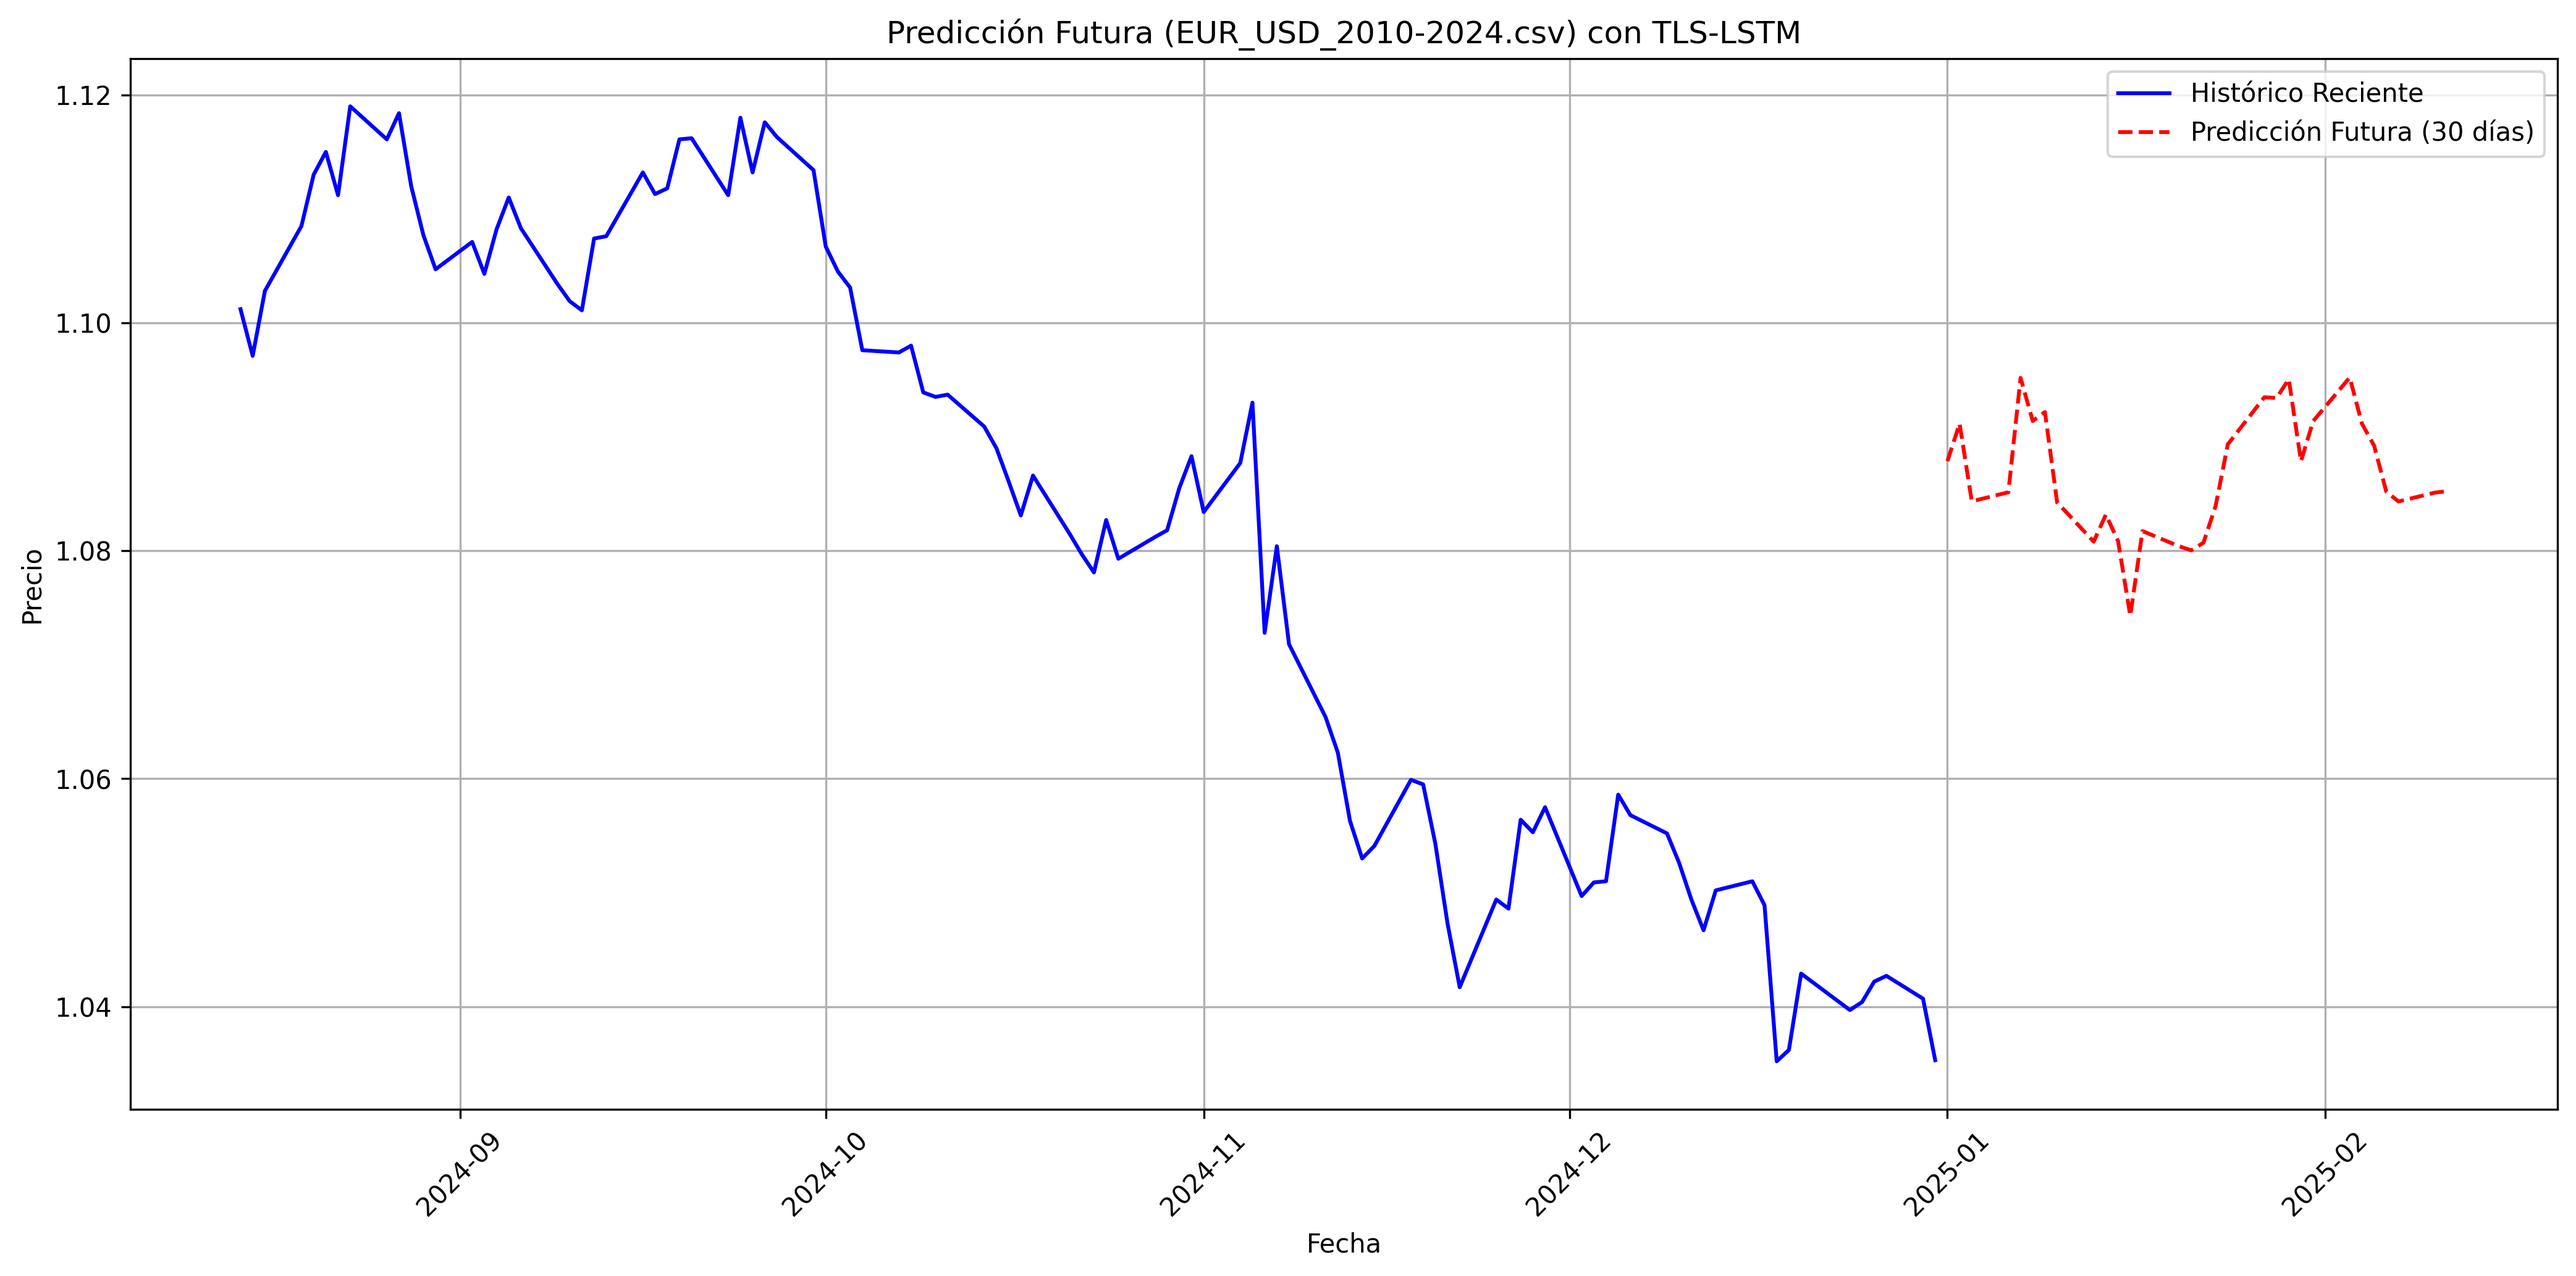
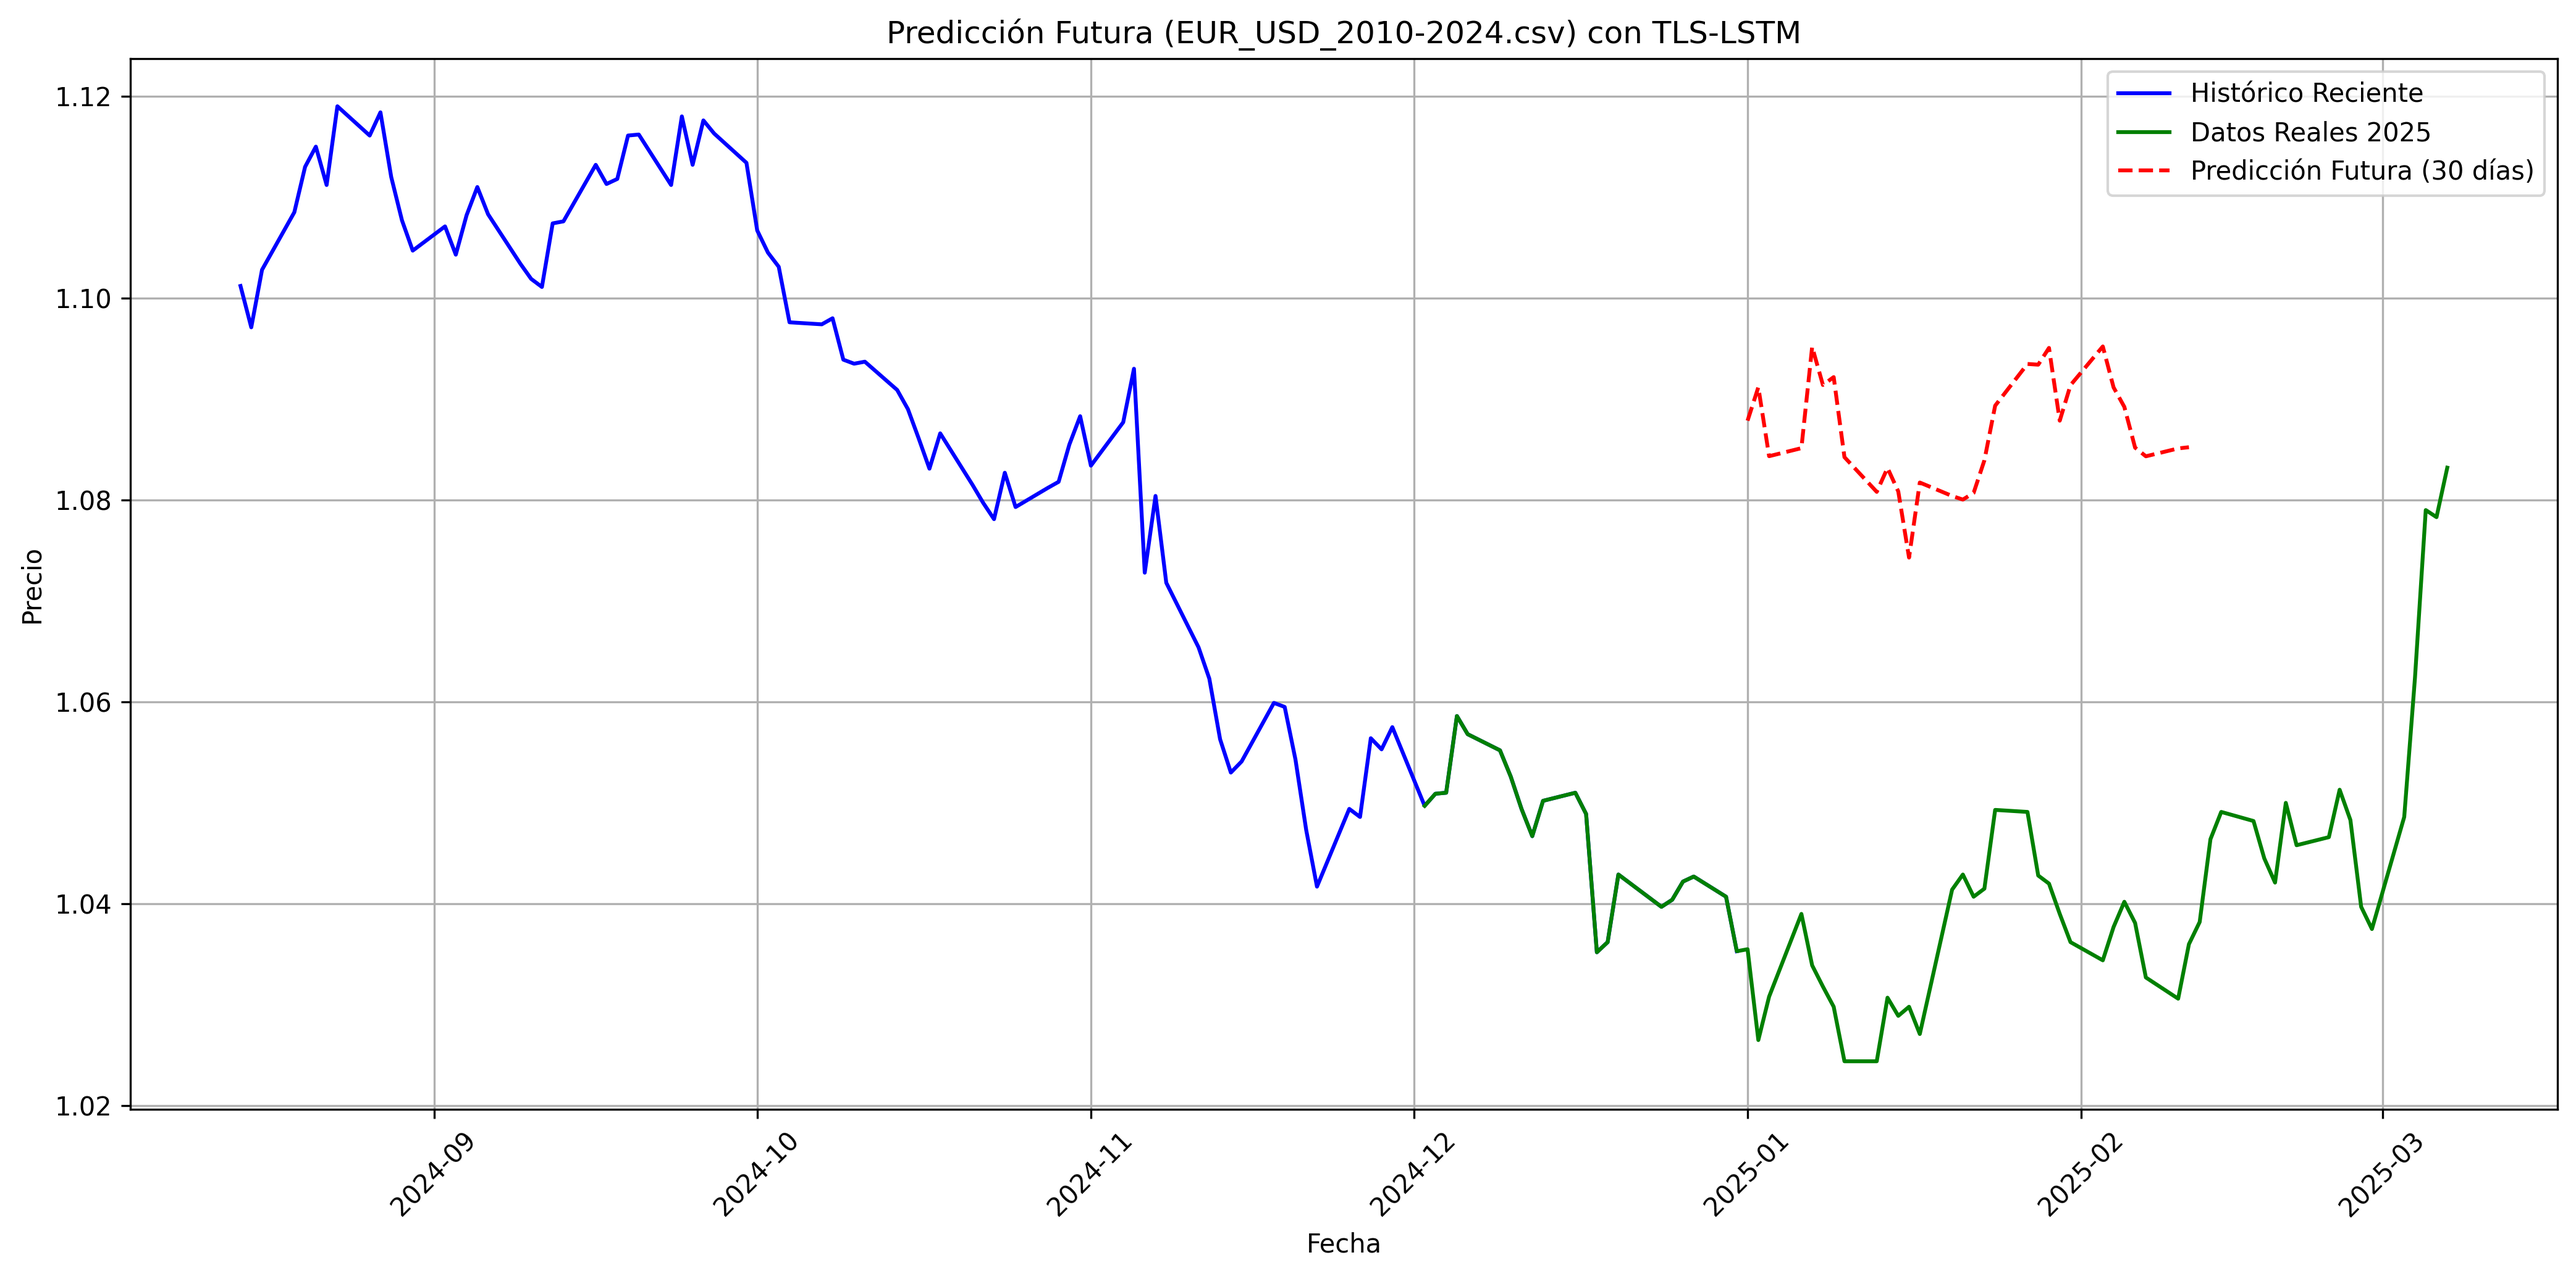
Refactor model configuration and update prediction script for future data handling

diff --git a/model/predecir_future.py b/model/predecir_future.py
@@ -4,12 +4,12 @@ import pandas as pd
 import torch
 import torch.nn as nn
 import matplotlib.pyplot as plt
-import joblib # Para cargar el scaler
+import joblib  # Para cargar el scaler
 from datetime import timedelta
 from train_model import (
     add_indicator,
     load_and_prepare_data,
-    #create_sequences,
+    # create_sequences,
     get_model,
     device
 )
@@ -29,8 +29,9 @@ SCALER_PATH = DEFAULT_PARAMS.SCALER_PATH
 # --- Fin Parámetros ---
 
 # --- Parámetros para la Predicción Futura ---
-FUTURE_STEPS_TO_PREDICT = 30 # ¿Cuántos días hacia el futuro predecir? (ej: 90 días ~ 3 meses)
-HISTORICAL_DAYS_TO_PLOT = 100 # ¿Cuántos días históricos mostrar en el gráfico?
+# ¿Cuántos días hacia el futuro predecir? (ej: 90 días ~ 3 meses)
+FUTURE_STEPS_TO_PREDICT = 30
+HISTORICAL_DAYS_TO_PLOT = 100  # ¿Cuántos días históricos mostrar en el gráfico?
 # --- Fin Parámetros ---
 
 # --- Ejecución Principal ---
@@ -50,12 +51,13 @@ if __name__ == "__main__":
     # 2. Cargar Modelo Entrenado
     print(f"Cargando modelo entrenado desde: {MODEL_PATH}")
     model = get_model(input_size=len(FEATURES),
-                        hidden_size=HIDDEN_SIZE,
-                        output_size=FORECAST_HORIZON, # Debe ser 1 para predicción iterativa
-                        dropout_prob=DROPOUT_PROB).to(device)
+                      hidden_size=HIDDEN_SIZE,
+                      output_size=FORECAST_HORIZON,  # Debe ser 1 para predicción iterativa
+                      dropout_prob=DROPOUT_PROB).to(device)
     try:
-        model.load_state_dict(torch.load(f"modelos/{MODEL_PATH}", map_location=device))
-        model.eval() # Poner en modo evaluación
+        model.load_state_dict(torch.load(
+            f"modelos/{MODEL_PATH}", map_location=device))
+        model.eval()  # Poner en modo evaluación
         print("Modelo cargado y en modo evaluación.")
     except FileNotFoundError:
         print(f"Error: Archivo del modelo '{MODEL_PATH}' no encontrado.")
@@ -66,19 +68,21 @@ if __name__ == "__main__":
 
     # 3. Cargar Datos Históricos
     df = load_and_prepare_data(FILEPATH)
+    df2025 = load_and_prepare_data("EUR_USD_2025_01_01 - 2025_03_08.csv")
     # Después de cargar df, añade el RSI
     # Obtener todos los indicadores de forma dinámica
     indicators = add_indicator(df)
 
     # Asignar automáticamente todos los indicadores al DataFrame principal
     for indicator_name, values in indicators.items():
-        df[indicator_name] = values 
+        df[indicator_name] = values
 
     if df is None:
         exit()
 
     if len(df) < SEQ_LENGTH:
-        print(f"Error: No hay suficientes datos históricos ({len(df)}) para formar la secuencia inicial de longitud {SEQ_LENGTH}.")
+        print(
+            f"Error: No hay suficientes datos históricos ({len(df)}) para formar la secuencia inicial de longitud {SEQ_LENGTH}.")
         exit()
 
     # 4. Preparar la Última Secuencia Conocida (ahora con 2 características)
@@ -86,58 +90,67 @@ if __name__ == "__main__":
     last_known_sequence_scaled = scaler.transform(last_known_sequence_original)
 
     # Convertir a tensor y ajustar forma para el modelo: (batch_size, seq_len, features)
-    current_sequence_tensor = torch.tensor(last_known_sequence_scaled, dtype=torch.float32).unsqueeze(0).to(device)
-    print(f"Forma tensor secuencia inicial: {current_sequence_tensor.shape}")  # Debería ser (1, 60, 2)
+    current_sequence_tensor = torch.tensor(
+        last_known_sequence_scaled, dtype=torch.float32).unsqueeze(0).to(device)
+    # Debería ser (1, 60, 2)
+    print(f"Forma tensor secuencia inicial: {current_sequence_tensor.shape}")
 
     # 5. Realizar Predicción Iterativa
     future_predictions_scaled = []
-    print(f"Iniciando predicción iterativa para {FUTURE_STEPS_TO_PREDICT} días futuros...")
+    print(
+        f"Iniciando predicción iterativa para {FUTURE_STEPS_TO_PREDICT} días futuros...")
 
     with torch.no_grad():
         for i in range(FUTURE_STEPS_TO_PREDICT):
             # Predecir el siguiente paso (solo el precio)
-            next_pred_scaled_tensor = model(current_sequence_tensor)  # Salida shape (1, 1)
-            
+            next_pred_scaled_tensor = model(
+                current_sequence_tensor)  # Salida shape (1, 1)
+
             # Crear valores para todos los features
             # 1. Precio predicho (ya escalado)
             # 2. RSI neutral (50 escalado)
             neutral_rsi_scaled = (50 - scaler.center_[1]) / scaler.scale_[1]
             # 3. SMA (usar el último valor conocido escalado)
-            last_sma_scaled = (df["SMA"].iloc[-1] - scaler.center_[2]) / scaler.scale_[2]
-            
+            last_sma_scaled = (df["SMA"].iloc[-1] -
+                               scaler.center_[2]) / scaler.scale_[2]
+
             # Crear tensor con TRES características
             next_step_scaled = torch.tensor([
-                [next_pred_scaled_tensor.item(), neutral_rsi_scaled, last_sma_scaled]
+                [next_pred_scaled_tensor.item(), neutral_rsi_scaled,
+                 last_sma_scaled]
             ], dtype=torch.float32).unsqueeze(0).to(device)
-            
+
             future_predictions_scaled.append(next_pred_scaled_tensor.item())
-            
+
             # Preparar la siguiente secuencia de entrada (manteniendo 3 features)
             new_sequence_tensor = torch.cat(
                 (current_sequence_tensor[:, 1:, :],  # Todos excepto el primero
-                next_step_scaled),  # Añadir la nueva predicción con 3 features
+                 next_step_scaled),  # Añadir la nueva predicción con 3 features
                 dim=1
             )
             current_sequence_tensor = new_sequence_tensor
     print("Predicción iterativa finalizada.")
 
     # 6. Desnormalizar las Predicciones Futuras
-    future_predictions_for_inverse = np.zeros((len(future_predictions_scaled), len(FEATURES)))
+    future_predictions_for_inverse = np.zeros(
+        (len(future_predictions_scaled), len(FEATURES)))
     future_predictions_for_inverse[:, 0] = future_predictions_scaled  # Precio
     future_predictions_for_inverse[:, 1] = 50  # RSI neutral
-    future_predictions_for_inverse[:, 2] = df["SMA"].iloc[-1]  # Último SMA conocido
+    # Último SMA conocido
+    future_predictions_for_inverse[:, 2] = df["SMA"].iloc[-1]
 
-    future_predictions = scaler.inverse_transform(future_predictions_for_inverse)[:, 0]  # Tomar solo el precio
+    future_predictions = scaler.inverse_transform(future_predictions_for_inverse)[
+        :, 0]  # Tomar solo el precio
 
     # 7. Generar Fechas Futuras para el Gráfico
     last_historical_date = df.index[-1]
     future_dates = pd.date_range(start=last_historical_date + timedelta(days=1),
-                                periods=FUTURE_STEPS_TO_PREDICT,
-                                freq='B') # 'B' para días hábiles, ajusta si es necesario ('D' para todos los días)
-
+                                 periods=FUTURE_STEPS_TO_PREDICT,
+                                 freq='B')  # 'B' para días hábiles, ajusta si es necesario ('D' para todos los días)
 
     # 8. Crear DataFrame de Predicciones Futuras
-    df_future = pd.DataFrame({'Predicción': future_predictions.flatten()}, index=future_dates)
+    df_future = pd.DataFrame(
+        {'Predicción': future_predictions.flatten()}, index=future_dates)
 
     # 9. Graficar Resultados
     print("Generando gráfico con predicciones futuras...")
@@ -147,6 +160,12 @@ if __name__ == "__main__":
     plt.plot(df.index[-HISTORICAL_DAYS_TO_PLOT:],
             df[TARGET_COLUMN].iloc[-HISTORICAL_DAYS_TO_PLOT:],
             label="Histórico Reciente", color="blue")
+
+    # Graficar datos de 2025 (si existen)
+    if df2025 is not None and len(df2025) > 0:
+        plt.plot(df2025.index,
+                df2025[TARGET_COLUMN],
+                label="Datos Reales 2025", color="green")
 
     # Graficar predicciones futuras
     plt.plot(df_future.index,
@@ -162,7 +181,8 @@ if __name__ == "__main__":
     plt.tight_layout()
 
     # Guardar la figura antes de mostrarla
-    plt.savefig(f"images/prediccion/{MODEL_PATH}.png", dpi=300, bbox_inches='tight')
+    plt.savefig(f"images/prediccion/{MODEL_PATH}.png",
+                dpi=300, bbox_inches='tight')
 
     plt.show()
 

diff --git a/model/config.py b/model/config.py
@@ -15,7 +15,7 @@ class ModelParams:
     HIDDEN_SIZE: int = 512
     DROPOUT_PROB: float = 0.10976329984400868
     FEATURES: List[str] = field(default_factory=lambda: ["Último", "RSI", "SMA"])
-    MODELNAME: str = "HybridLSTMAttention" 
+    MODELNAME: str = "TLS_LSTMModel" 
     #TLS_LSTMModel 
     #BidirectionalDeepLSTM
     #HybridLSTMAttention
